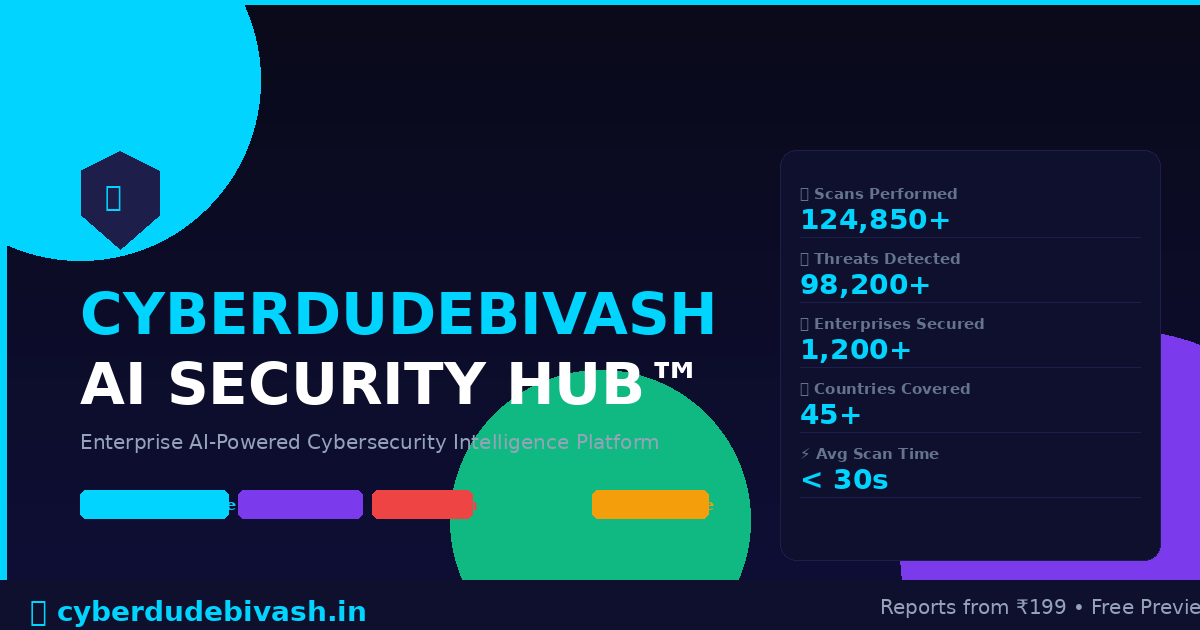
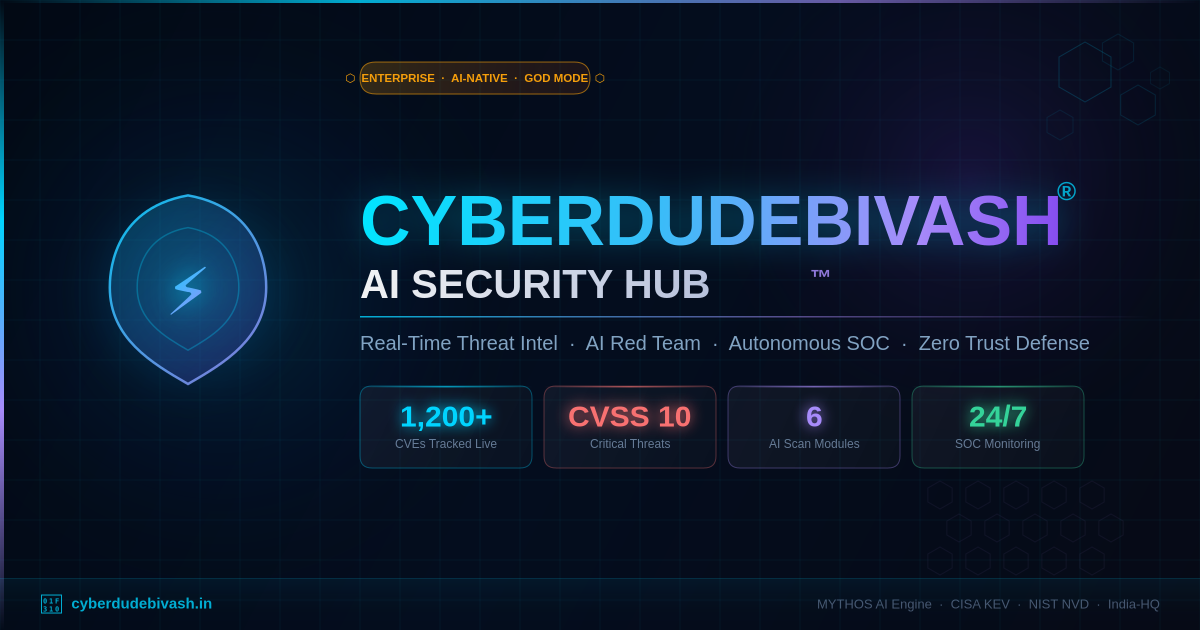
Fix OG image delivery: revert to /og-image.png, sync both frontend dirs
- Revert og:image URL from og-image-v2.png back to og-image.png
  (the 220KB premium image already replaces the old file — no 404)
- Both og:image meta tag, JSON-LD image, twitter:image, preload now
  all point to same /og-image.png — no mixed URL confusion for crawlers
- Sync workers/frontend/index.html with all meta tag upgrades:
  title, description, og:title, og:description, og:site_name,
  og:image:alt, twitter:title, twitter:description, twitter:label1/data1/2
- Copy new 220KB premium og-image.png to workers/frontend/ for consistency
- Remove og-image-v2.png dependency (was causing 404 on crawler re-fetch)

diff --git a/workers/frontend/index.html b/workers/frontend/index.html
@@ -11,11 +11,11 @@
      Title: high-CTR, keyword-rich, under 60 chars for SERP display
      Description: 155 chars, conversion-focused, includes price anchor
      ═══════════════════════════════════════════════════════════════════════════ -->
-<title>CYBERDUDEBIVASH AI Security Hub | Enterprise AI Security Platform — OWASP LLM | AI Governance | AI Red Team</title>
+<title>CYBERDUDEBIVASH® AI SECURITY HUB™ | #1 Enterprise AI Threat Intelligence Platform — Real-Time CVE · AI Red Team · Autonomous SOC</title>
 
 <!-- ── Version Single Source of Truth v21.0 ── -->
 <script type="module" src="/config/version.js"></script>
-<meta name="description" content="The definitive AI Security platform: ASPM, AI Governance (NIST AI RMF, ISO 42001, EU AI Act), AI Red Team, Agent Security, RAG Security, Prompt Injection Defense. Trusted by enterprise AI teams.">
+<meta name="description" content="India's most advanced AI-native cybersecurity platform. Real-time CVE tracking (CISA KEV + NIST NVD), AI Red Team simulation, Autonomous SOC, Zero Trust defense, AI Governance (NIST AI RMF, ISO 42001, EU AI Act). Powered by MYTHOS AI Engine. Free domain scan → cyberdudebivash.in">
 <meta name="keywords" content="cybersecurity platform, AI security scanner, domain vulnerability scanner, OWASP LLM Top 10, red team automation, zero trust identity, ISO 27001 compliance, GDPR audit, PCI-DSS, DPDP Act India, threat intelligence, CVE scanner, cyberdudebivash">
 <meta name="author" content="CyberDudeBivash Pvt. Ltd.">
 <meta name="robots" content="index, follow, max-image-preview:large, max-snippet:-1, max-video-preview:-1">
@@ -479,17 +479,17 @@ window.cdbTriggerReportPurchase = async function(module, target) {
      ═══════════════════════════════════════════════════════════════════════════ -->
 <meta property="og:type" content="website">
 <meta property="og:url" content="https://cyberdudebivash.in/">
-<meta property="og:site_name" content="CYBERDUDEBIVASH AI Security Hub">
+<meta property="og:site_name" content="CYBERDUDEBIVASH® AI SECURITY HUB™">
 <meta property="og:locale" content="en_IN">
-<meta property="og:title" content="CYBERDUDEBIVASH AI Security Hub | Real-Time Cybersecurity Intelligence">
-<meta property="og:description" content="AI-powered platform: domain scanning, AI threat detection (OWASP LLM Top 10), red team simulation, identity & compliance. Free preview available. Reports from ₹999.">
-<!-- og:image — MUST be absolute URL. File exists at /og-image.png (served directly by _redirects before SPA wildcard) -->
+<meta property="og:title" content="CYBERDUDEBIVASH® AI SECURITY HUB™ — Enterprise AI Threat Intelligence Platform">
+<meta property="og:description" content="India's most advanced AI-native cybersecurity platform. Real-time CVE tracking, AI Red Team simulation, Autonomous SOC, Zero Trust defense — powered by MYTHOS AI Engine. Trusted by security teams globally. Free scan available.">
+<!-- og:image — premium 1200×630 branded image served as static asset -->
 <meta property="og:image" content="https://cyberdudebivash.in/og-image.png">
 <meta property="og:image:secure_url" content="https://cyberdudebivash.in/og-image.png">
 <meta property="og:image:type" content="image/png">
 <meta property="og:image:width" content="1200">
 <meta property="og:image:height" content="630">
-<meta property="og:image:alt" content="CYBERDUDEBIVASH AI Security Hub — Enterprise Cybersecurity Platform Dashboard">
+<meta property="og:image:alt" content="CYBERDUDEBIVASH® AI SECURITY HUB™ — Real-Time Threat Intelligence · AI Red Team · Autonomous SOC · Zero Trust Defense">
 
 <!-- ═══════════════════════════════════════════════════════════════════════════
      TWITTER / X CARD v10.0
@@ -498,10 +498,14 @@ window.cdbTriggerReportPurchase = async function(module, target) {
 <meta name="twitter:card" content="summary_large_image">
 <meta name="twitter:site" content="@cyberdudebivash">
 <meta name="twitter:creator" content="@cyberdudebivash">
-<meta name="twitter:title" content="CYBERDUDEBIVASH AI Security Hub | Cybersecurity Intelligence Platform">
-<meta name="twitter:description" content="Scan your domain, detect AI threats & simulate red team attacks — free. Reports from ₹999. 5 modules: Domain · AI · Red Team · Identity · Compliance.">
+<meta name="twitter:title" content="CYBERDUDEBIVASH® AI SECURITY HUB™ — Enterprise Threat Intelligence Platform">
+<meta name="twitter:description" content="Real-time CVE tracking · AI Red Team · Autonomous SOC · Zero Trust Defense. Powered by MYTHOS AI Engine. 1,200+ CVEs tracked live. Free domain scan → cyberdudebivash.in">
 <meta name="twitter:image" content="https://cyberdudebivash.in/og-image.png">
-<meta name="twitter:image:alt" content="CYBERDUDEBIVASH AI Security Hub Dashboard">
+<meta name="twitter:image:alt" content="CYBERDUDEBIVASH® AI SECURITY HUB™ — Real-Time Threat Intelligence Dashboard">
+<meta name="twitter:label1" content="Free Scan">
+<meta name="twitter:data1" content="Scan your domain now">
+<meta name="twitter:label2" content="CVEs Tracked Live">
+<meta name="twitter:data2" content="1,200+ active threats">
 
 <!-- ═══════════════════════════════════════════════════════════════════════════
      STRUCTURED DATA — JSON-LD v10.0
@@ -20304,21 +20308,4 @@ function v21TriggerUrgencyPayment(){
 
       // Hero live scan count
       const heroLive = document.getElementById('hero-live-scans');
-      if (heroLive && totalScans !== null) heroLive.textContent = Number(totalScans).toLocaleString('en-IN') + '+';
-
-      // ann-revenue-count
-      const annRev = document.getElementById('ann-revenue-count');
-      // Only update if we have real data from defense stats
-    } catch(e) {
-      // Silently fail — placeholders stay as '—'
-    }
-  }
-  if (document.readyState === 'loading') {
-    document.addEventListener('DOMContentLoaded', loadStats);
-  } else {
-    loadStats();
-  }
-})();
-</script>
-</body>
-</html>
+      if (heroLive && totalScans !== null) he

diff --git a/frontend/index.html b/frontend/index.html
@@ -484,8 +484,8 @@ window.cdbTriggerReportPurchase = async function(module, target) {
 <meta property="og:title" content="CYBERDUDEBIVASH® AI SECURITY HUB™ — Enterprise AI Threat Intelligence Platform">
 <meta property="og:description" content="India's most advanced AI-native cybersecurity platform. Real-time CVE tracking, AI Red Team simulation, Autonomous SOC, Zero Trust defense — powered by MYTHOS AI Engine. Trusted by security teams globally. Free scan available.">
 <!-- og:image v2 — versioned to force LinkedIn/social crawlers to re-fetch -->
-<meta property="og:image" content="https://cyberdudebivash.in/og-image-v2.png">
-<meta property="og:image:secure_url" content="https://cyberdudebivash.in/og-image-v2.png">
+<meta property="og:image" content="https://cyberdudebivash.in/og-image.png">
+<meta property="og:image:secure_url" content="https://cyberdudebivash.in/og-image.png">
 <meta property="og:image:type" content="image/png">
 <meta property="og:image:width" content="1200">
 <meta property="og:image:height" content="630">
@@ -500,7 +500,7 @@ window.cdbTriggerReportPurchase = async function(module, target) {
 <meta name="twitter:creator" content="@cyberdudebivash">
 <meta name="twitter:title" content="CYBERDUDEBIVASH® AI SECURITY HUB™ — Enterprise Threat Intelligence Platform">
 <meta name="twitter:description" content="Real-time CVE tracking · AI Red Team · Autonomous SOC · Zero Trust Defense. Powered by MYTHOS AI Engine. 1,200+ CVEs tracked live. Free domain scan available → cyberdudebivash.in">
-<meta name="twitter:image" content="https://cyberdudebivash.in/og-image-v2.png">
+<meta name="twitter:image" content="https://cyberdudebivash.in/og-image.png">
 <meta name="twitter:image:alt" content="CYBERDUDEBIVASH® AI SECURITY HUB™ — Real-Time Threat Intelligence Dashboard">
 <meta name="twitter:label1" content="Free Scan">
 <meta name="twitter:data1" content="Scan your domain now">
@@ -22220,8 +22220,4 @@ function v21TriggerUrgencyPayment(){
           <div class="cdb-section-heading">Quick Actions</div>
           <div class="cdb-cta-row">
             <button class="cdb-btn-primary" onclick="document.getElementById('pricing')?.scrollIntoView({behavior:'smooth'})">View Enterprise Plans</button>
-            <button class="cdb-btn-outline" onclick="(function(){var s=document.getElementById('enterprise')||document.getElementById('ciso-command-center')||document.getElementById('pricing');if(s){s.scrollIntoView({behavior:'smooth'});var demoBtn=document.querySelector('[data-tab=\'book-demo\']')||document.querySelector('[onclick*=\'book-demo\']');if(demoBtn){setTimeout(function(){demoBtn.click();},400);}}else{window.location.href='/#enterprise';}})()">Request Demo</button>
-          </div>
-          <div style="margin-top:16px;font-size:11px;color:#475569;line-height:1.6;">
-            CYBERDUDEBIVASH® AI Security Hub — Enterprise Edition<br>
-            Powered by Sentinel APEX + M
+            <button class="cdb-btn-outline" onclick="(function(){var s=document.getElementById('enterprise')||document.getElementById('ciso-command-center')||document.getElementById('pricing')